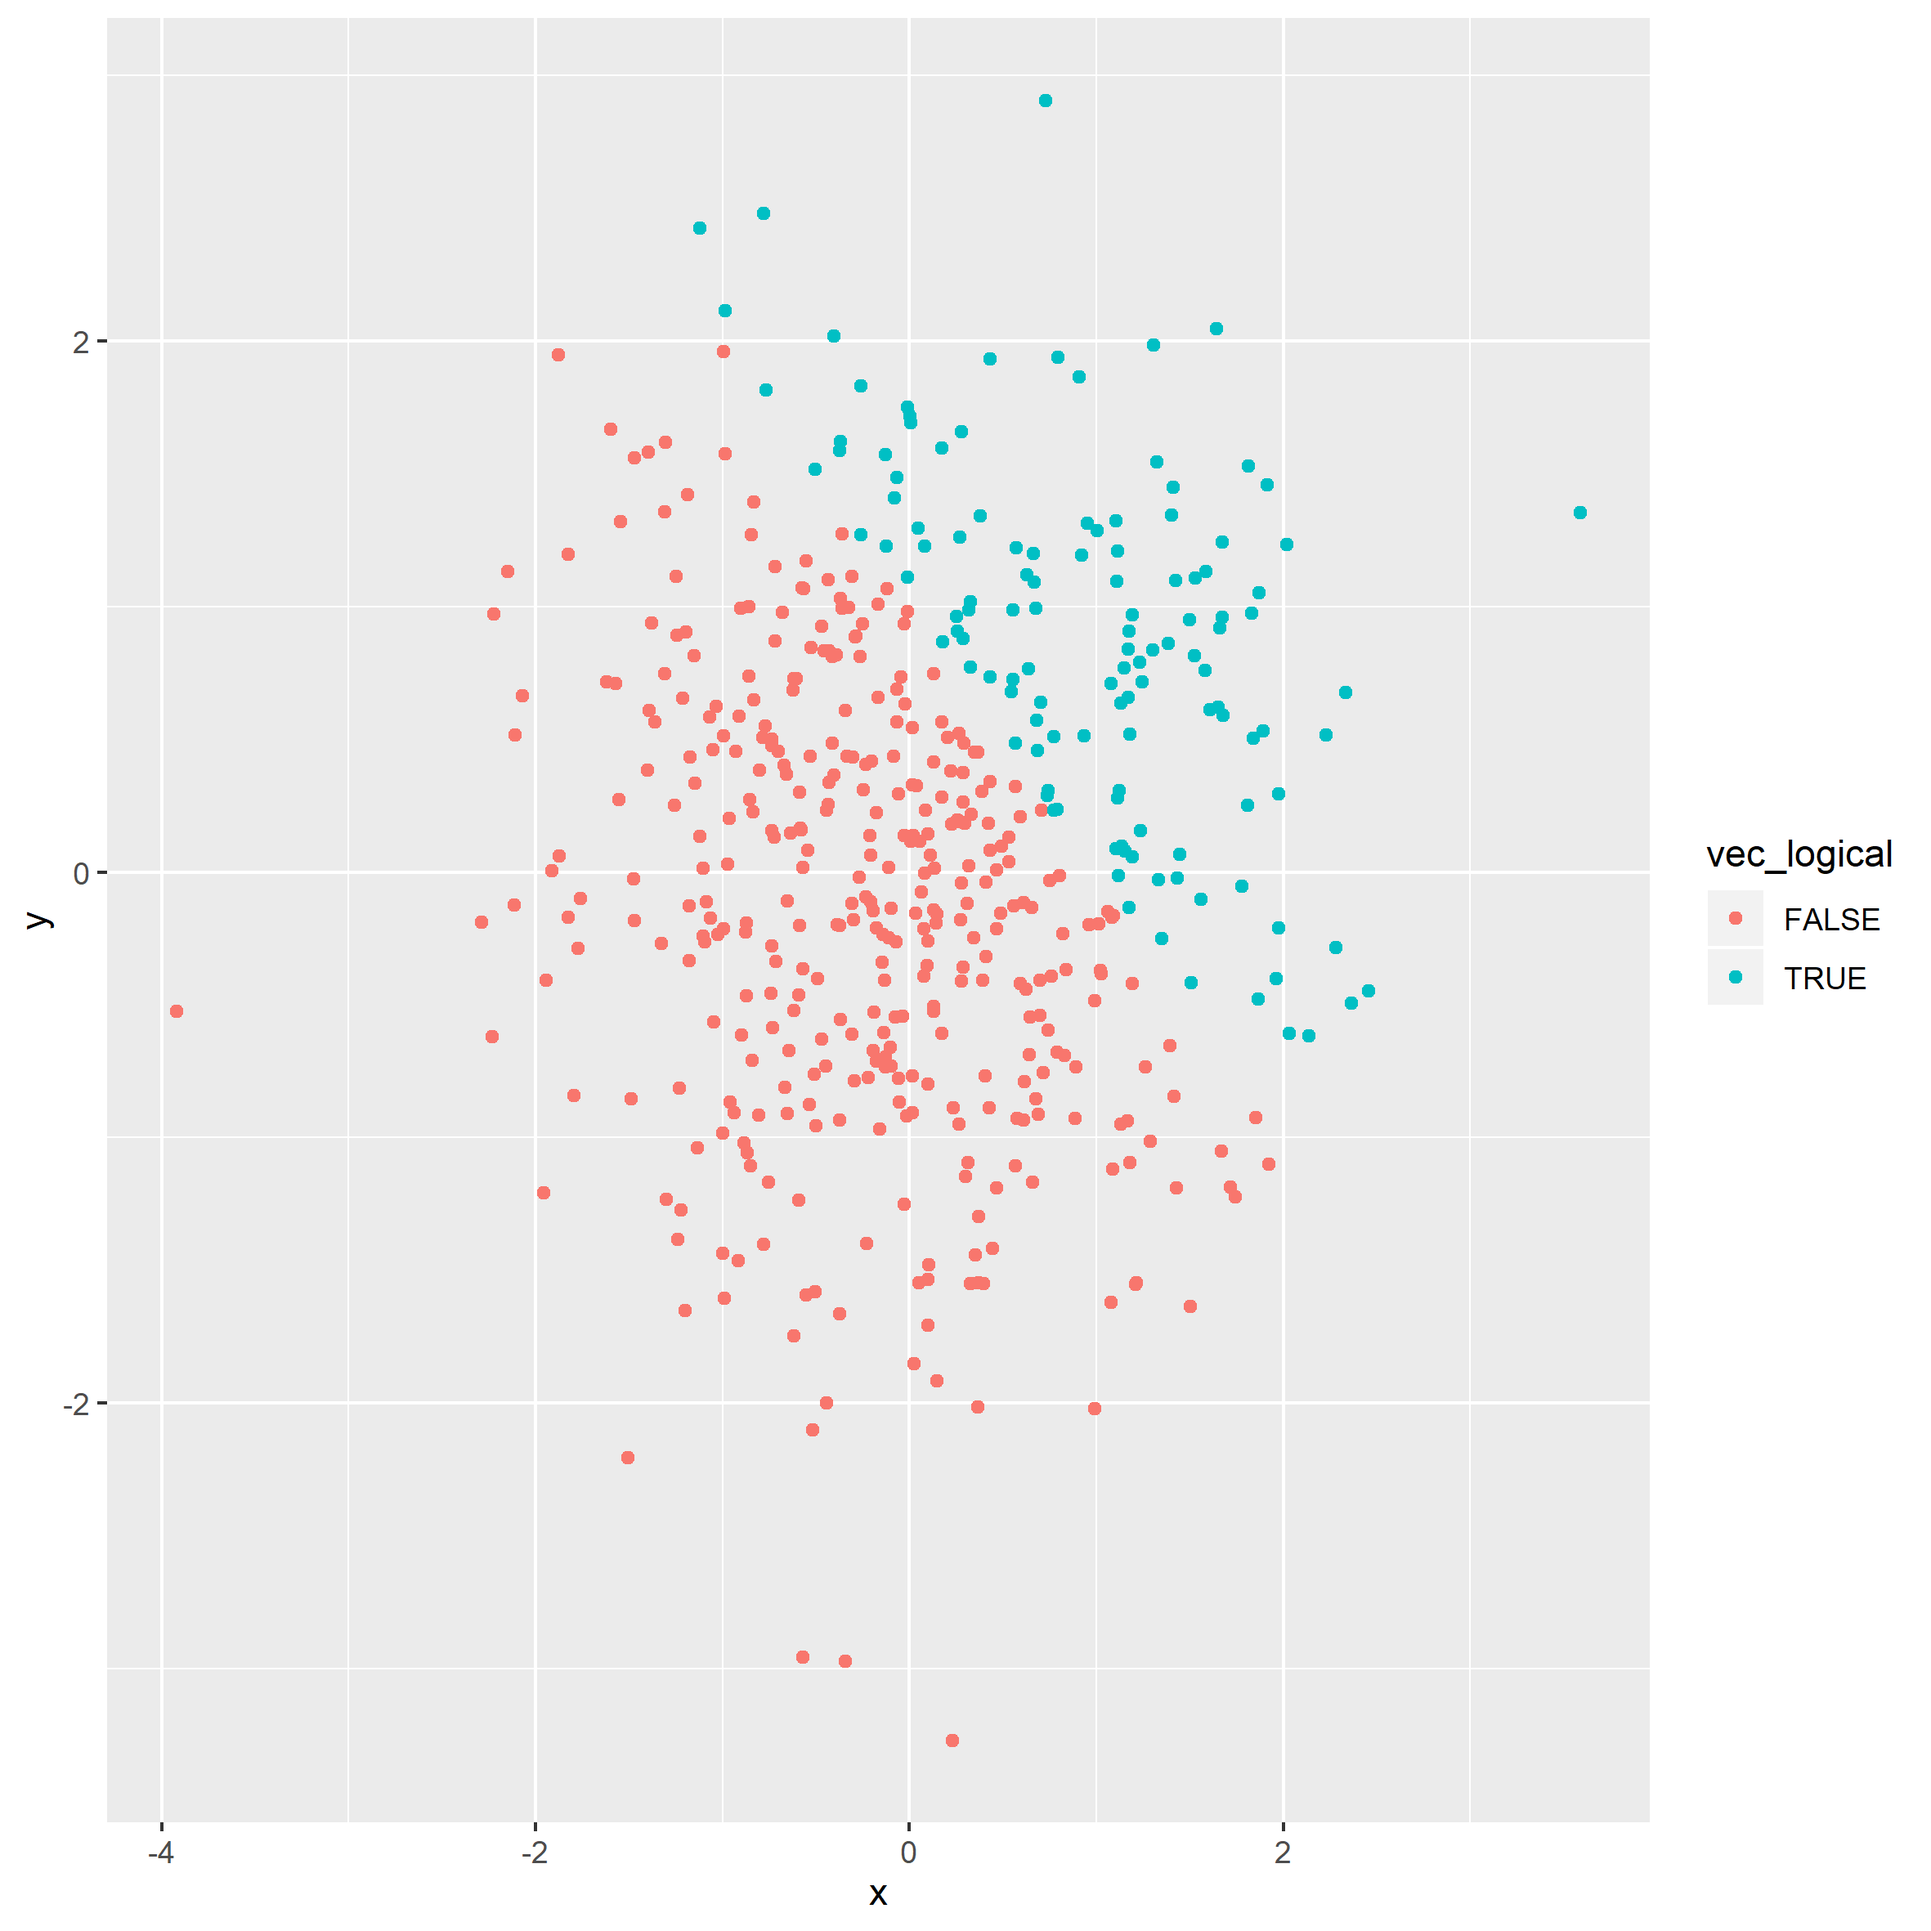
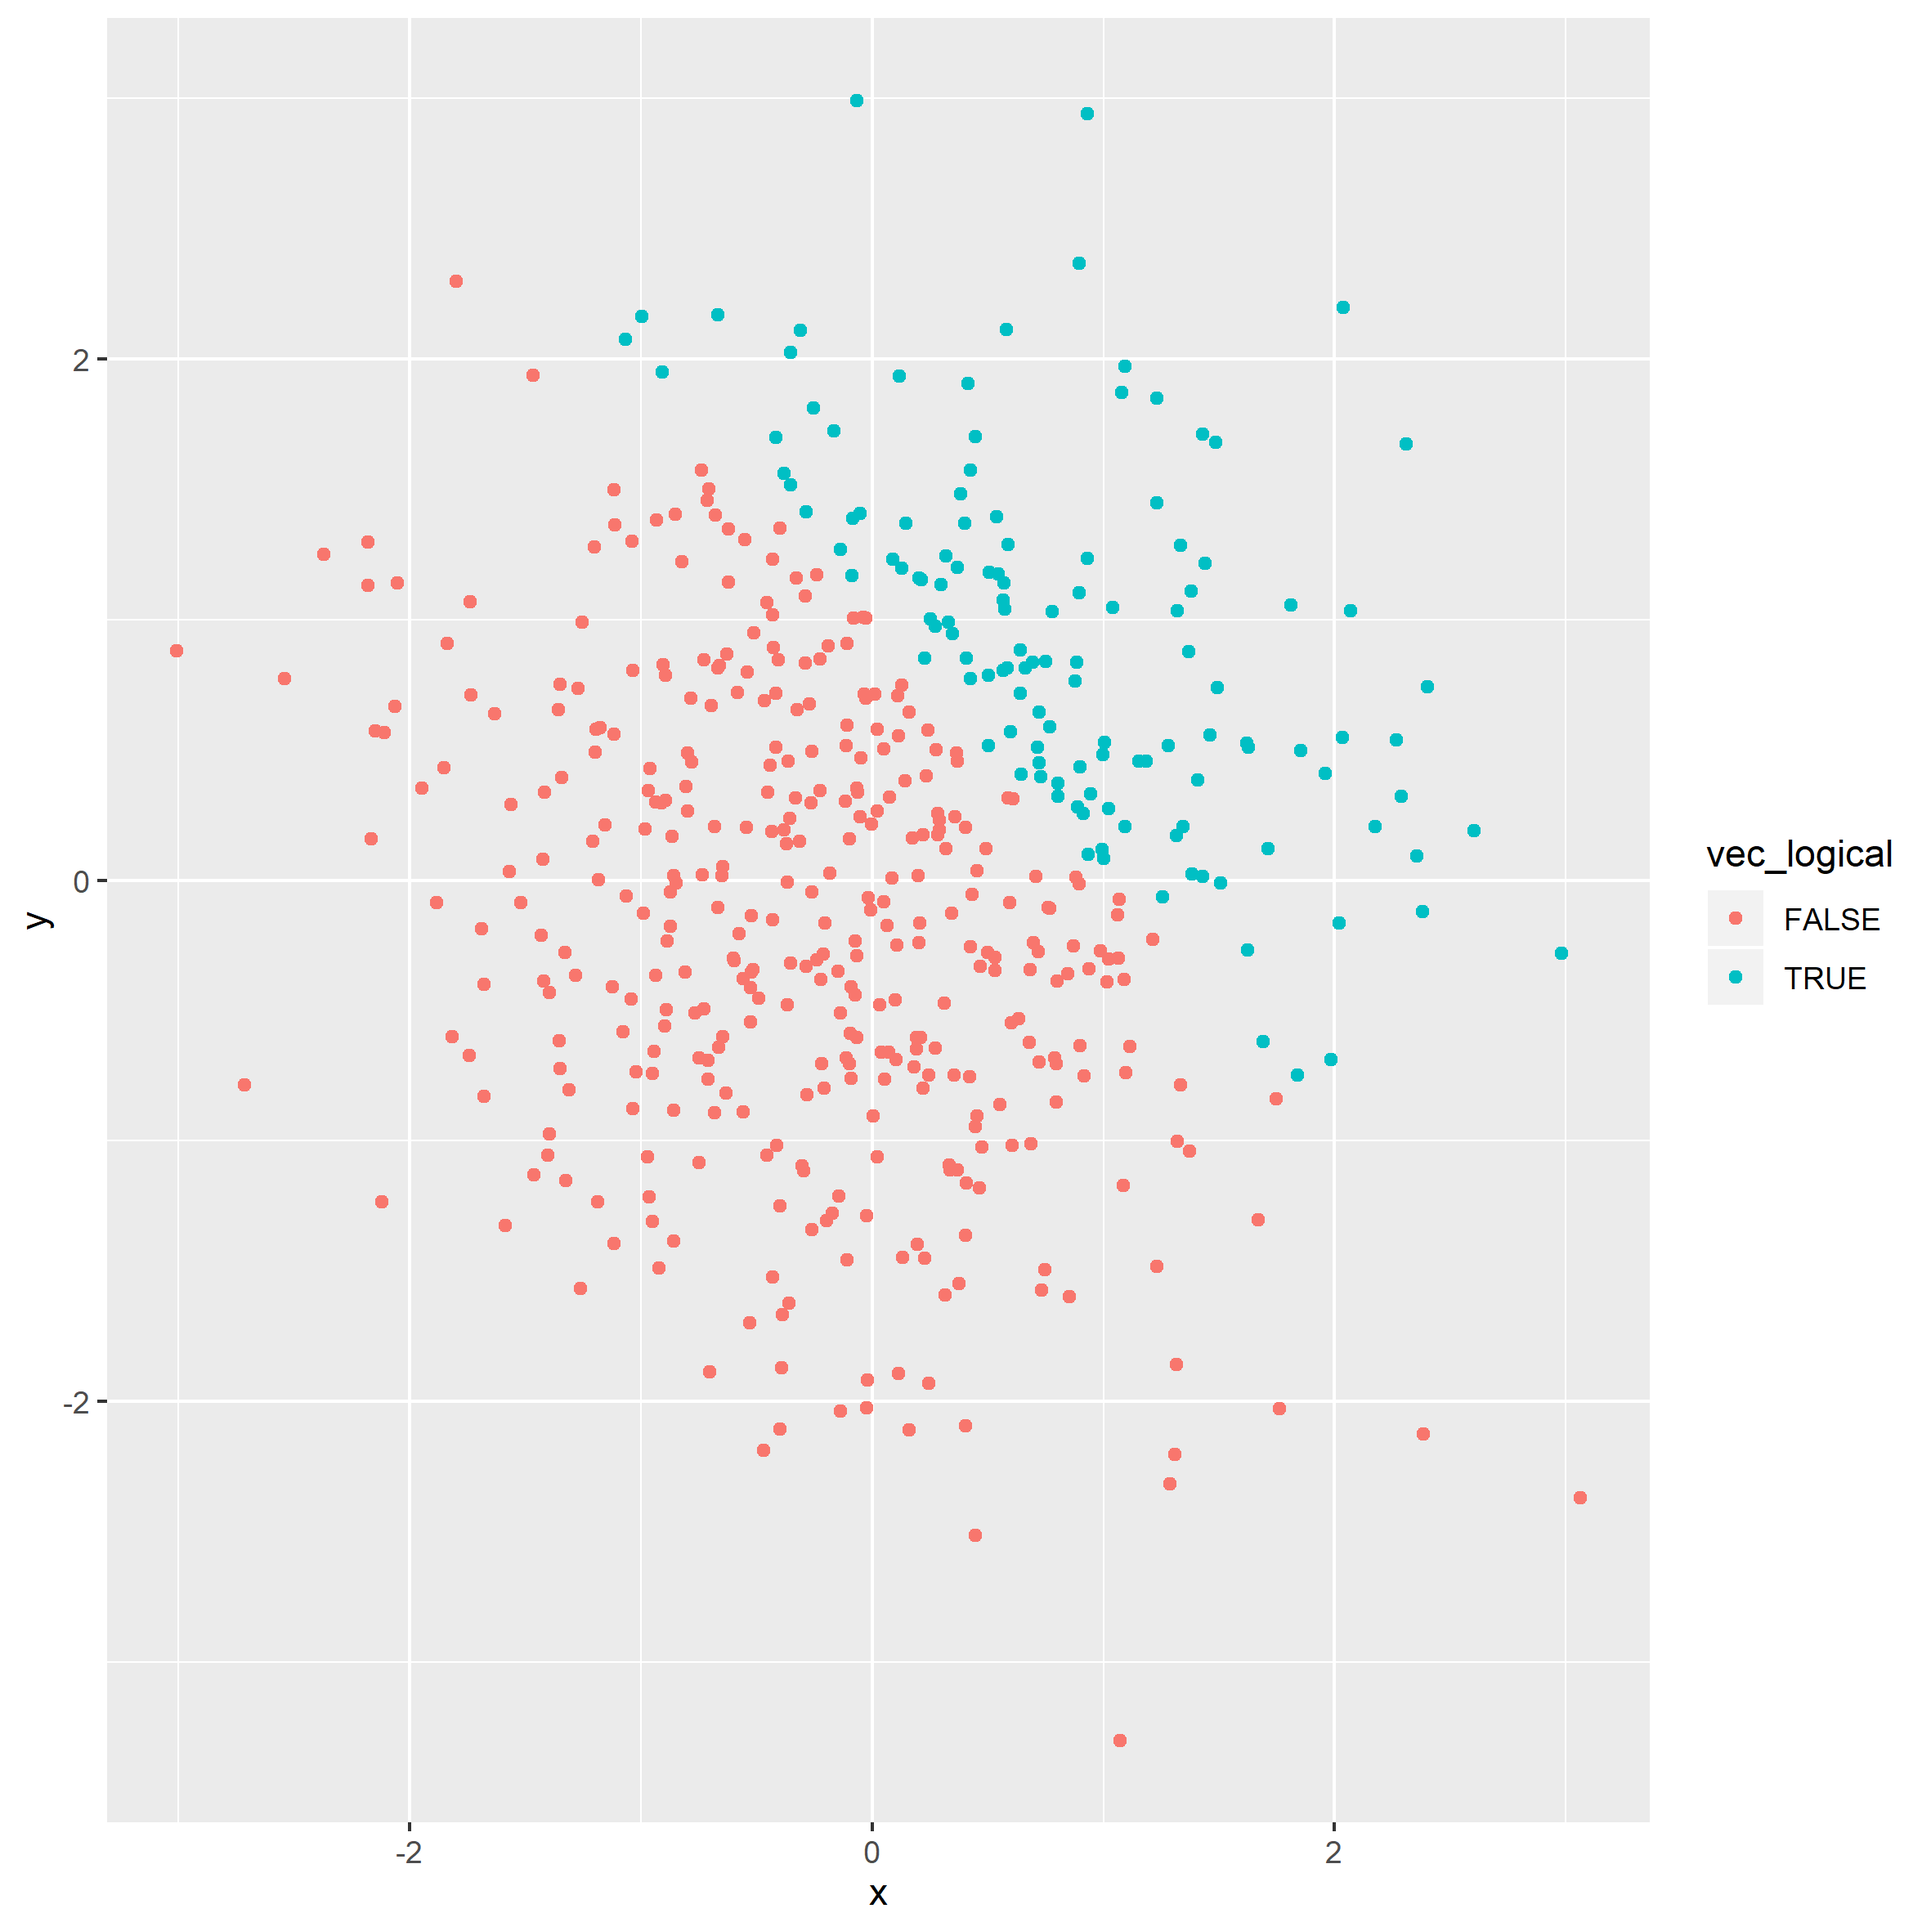
correction on data frame creation

diff --git a/p8105_hw1_yq2251.md b/p8105_hw1_yq2251.md
@@ -24,9 +24,9 @@ library(tidyverse)
 ``` r
 hw1_df=tibble(
    vec_numeric=rnorm(n=8, mean=0, sd=1),
-   vec_logical=c(vec_numeric>0),
-   vec_char=character(length=8),
-   vec_factor=factor(vec_char, levels = c("a", "b", "c"))
+   vec_logical=vec_numeric>0,
+   vec_char=c("This", "is", "my", "first", "class", "using", "R", "code"),
+   vec_factor=factor(c( "a","a","b","b","c","c","c","c"))
 )
 ```
 
@@ -37,13 +37,13 @@ hw1_df=tibble(
 mean(pull(hw1_df, vec_numeric))
 ```
 
-    ## [1] 0.3390853
+    ## [1] 0.2212864
 
 ``` r
 mean(pull(hw1_df, vec_logical))
 ```
 
-    ## [1] 0.875
+    ## [1] 0.625
 
 ``` r
 mean(pull(hw1_df, vec_char))
@@ -72,11 +72,13 @@ into numeric
 as.numeric(pull(hw1_df, vec_logical))
 ```
 
-    ## [1] 1 1 1 1 1 1 0 1
+    ## [1] 0 1 1 1 0 1 0 1
 
 ``` r
 as.numeric(pull(hw1_df, vec_char))
 ```
+
+    ## Warning: NAs introduced by coercion
 
     ## [1] NA NA NA NA NA NA NA NA
 
@@ -84,7 +86,7 @@ as.numeric(pull(hw1_df, vec_char))
 as.numeric(pull(hw1_df, vec_factor))
 ```
 
-    ## [1] NA NA NA NA NA NA NA NA
+    ## [1] 1 1 2 2 3 3 3 3
 
 \#According to the output,logical vector can be converted to numeric
 vector with “true” or “false” replaced by “1” and “0”. \#Both character
@@ -99,8 +101,8 @@ calculation
 pull(hw1_df, vec_numeric)*as.numeric(pull(hw1_df, vec_logical))
 ```
 
-    ## [1] 0.73943265 0.53962249 0.07277471 0.32544040 0.84184352 0.90594389
-    ## [7] 0.00000000 0.59589694
+    ## [1] 0.0000000 0.7376115 0.7197386 0.8976069 0.0000000 0.8079386 0.0000000
+    ## [8] 0.1063113
 
 ``` r
 pull(hw1_df, vec_numeric)*as.factor(pull(hw1_df, vec_logical))
@@ -115,8 +117,8 @@ pull(hw1_df, vec_numeric)*as.factor(pull(hw1_df, vec_logical))
 as.numeric(as.factor(pull(hw1_df, vec_logical)))*pull(hw1_df, vec_numeric)
 ```
 
-    ## [1]  1.4788653  1.0792450  0.1455494  0.6508808  1.6836870  1.8118878
-    ## [7] -1.3082721  1.1917939
+    ## [1] -0.1732254  1.4752229  1.4394773  1.7952139 -0.7122517  1.6158773
+    ## [7] -0.6134386  0.2126225
 
 \#\#Question 2 \#\# create data frame
 
@@ -131,10 +133,10 @@ hw1_df2=tibble(
 ```
 
 \#add inline R code to explain the dataset and results The number of
-rows in dataset is 500 rows and 5 columns. The mean of x is 0.0424455.
-The median of x is 0.0082075. The standard deviation of x is 0.9827205.
+rows in dataset is 500 rows and 5 columns. The mean of x is -0.0030616.
+The median of x is -0.0272782. The standard deviation of x is 0.9831152.
 
-The proportion of cases for which x + y \> 1 is 0.252.
+The proportion of cases for which x + y \> 1 is 0.258.
 
 \#draw scatterplot y versus x using logical variables
 
